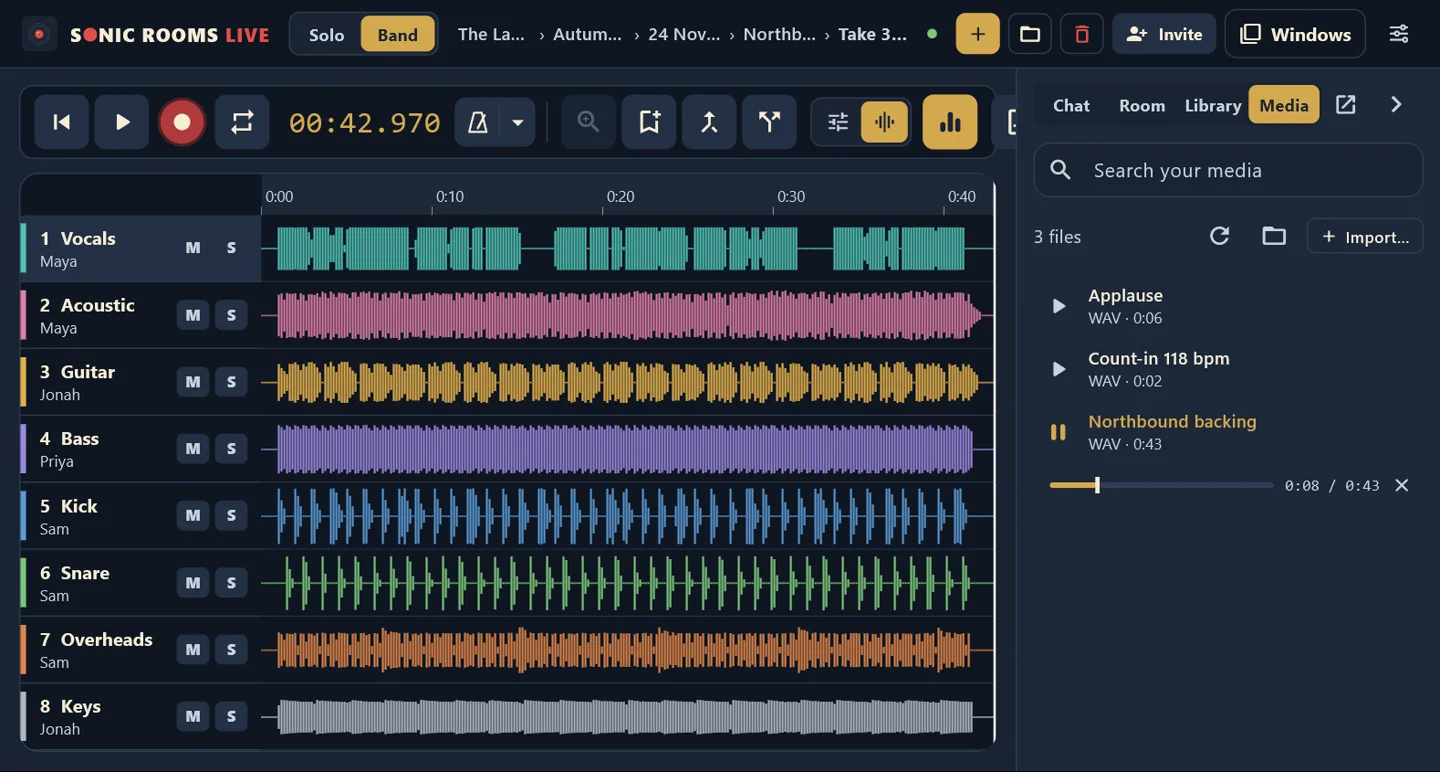
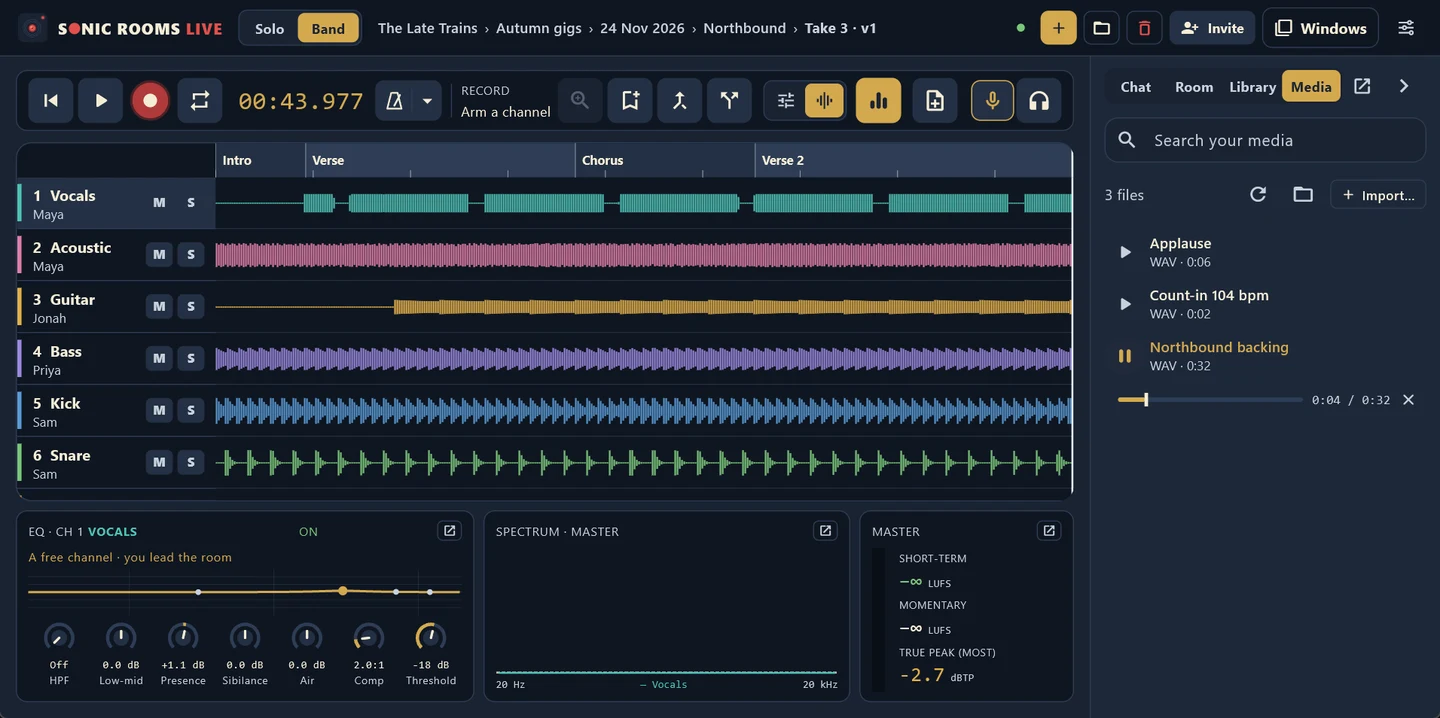
Sonic Rooms Live: new screenshots (band room with chat, Solo, timeline, pop-out windows, Media); DoWe: pocket money back, no chores

diff --git a/public/sonicroomslive/index.html b/public/sonicroomslive/index.html
@@ -168,29 +168,29 @@
         <h2>A look inside</h2>
         <div class="screens" role="list">
           <figure class="screen" role="listitem">
-            <img src="/sonicroomslive/shots/room.webp" width="1440" height="772" loading="lazy"
-              alt="The band room: sixteen mixer channels named Vocals, Acoustic, Guitar, Bass, Kick, Snare, Overheads and Keys with each player's name, level meters moving, and Maya and Jonah in the room with a steady connection">
-            <figcaption><strong>The band room</strong>A desk of sixteen channels, each with its player. The leader picks the track and starts the takes; everyone else just plays.</figcaption>
+            <img src="/sonicroomslive/shots/room.webp" width="1440" height="718" loading="lazy"
+              alt="The band room: channels named Vocals, Acoustic, Guitar, Bass, Kick, Snare, Cymbals and Keys, each with its player's name and moving level meters; EQ, spectrum and loudness meters below; band chat on the right">
+            <figcaption><strong>The band room</strong>A channel for each player, up to sixteen. The leader picks the track and starts the takes; everyone else just plays, and talks between takes in the chat.</figcaption>
           </figure>
           <figure class="screen" role="listitem">
-            <img src="/sonicroomslive/shots/timeline.webp" width="1440" height="772" loading="lazy"
-              alt="The playback view: eight channels of a take shown as coloured waveforms on a timeline, with the playhead part way through">
-            <figcaption><strong>Every part, side by side</strong>See the whole take as waveforms. Click to jump, drag to loop a section, and bounce a mix when you're happy.</figcaption>
+            <img src="/sonicroomslive/shots/solo.webp" width="1440" height="718" loading="lazy"
+              alt="Solo mode: eight channels, five of them recorded by Maya (Vocals, Harmony, Acoustic, Keys and Bass), with the take Northbound demo open in the library">
+            <figcaption><strong>Solo mode</strong>The same recorder with eight channels, just for you. Layer up an idea, then copy it to the band when it's ready. No internet needed.</figcaption>
           </figure>
           <figure class="screen" role="listitem">
-            <img src="/sonicroomslive/shots/library.webp" width="1440" height="772" loading="lazy"
-              alt="The library: a project called Autumn gigs with three rehearsal sessions, the track Northbound open with three takes, and the files of Take 3">
-            <figcaption><strong>Your band's library</strong>Every session, track and take the band has recorded — on each member's computer, not ours.</figcaption>
+            <img src="/sonicroomslive/shots/timeline.webp" width="1440" height="718" loading="lazy"
+              alt="The playback view: each part of a take as a coloured waveform under section markers Intro, Verse, Chorus and Verse 2, with the playhead in the chorus and the band's library on the right">
+            <figcaption><strong>Every part, side by side</strong>See the whole take as waveforms, with your sections marked. Click to play from anywhere, drag to loop a section, and find every take in the library.</figcaption>
           </figure>
           <figure class="screen" role="listitem">
-            <img src="/sonicroomslive/shots/media.webp" width="1440" height="772" loading="lazy"
-              alt="The Media tab: an applause sound effect, a count-in and a backing track, with the backing track previewing on a small timeline">
-            <figcaption><strong>Media at hand</strong>Import backing tracks and sound effects, hear them on their own first, then put them on a channel.</figcaption>
+            <img src="/sonicroomslive/shots/windows.webp" width="1440" height="754" loading="lazy"
+              alt="The EQ and compressor and the spectrum, each popped out into its own window over the main desk">
+            <figcaption><strong>Spread out across your screens</strong>Pop the EQ, spectrum, channels, timeline or chat out into their own windows, put them on another screen, and dock them back with a click.</figcaption>
           </figure>
           <figure class="screen" role="listitem">
-            <img src="/sonicroomslive/shots/chat.webp" width="1440" height="772" loading="lazy"
-              alt="Band chat beside the mixer: Maya asks whether to keep the slower ending and Jonah agrees, with quick replies such as Again from the top and Too loud">
-            <figcaption><strong>Talk between takes</strong>Hold space to talk, or use the chat and its quick replies — "Again from the top", "Too loud".</figcaption>
+            <img src="/sonicroomslive/shots/media.webp" width="1440" height="718" loading="lazy"
+              alt="The Media tab: an applause sound effect, a count-in and a backing track, with the backing track previewing">
+            <figcaption><strong>Media at hand</strong>Import backing tracks, count-ins and sound effects, hear them on their own first, then put them on a channel.</figcaption>
           </figure>
         </div>
         <p style="font-size:0.82rem;color:var(--muted)">Screens show an example band and recordings.</p>

diff --git a/src/pages/sonicroomslive/index.html b/src/pages/sonicroomslive/index.html
@@ -135,29 +135,29 @@
         <h2>A look inside</h2>
         <div class="screens" role="list">
           <figure class="screen" role="listitem">
-            <img src="/sonicroomslive/shots/room.webp" width="1440" height="772" loading="lazy"
-              alt="The band room: sixteen mixer channels named Vocals, Acoustic, Guitar, Bass, Kick, Snare, Overheads and Keys with each player's name, level meters moving, and Maya and Jonah in the room with a steady connection">
-            <figcaption><strong>The band room</strong>A desk of sixteen channels, each with its player. The leader picks the track and starts the takes; everyone else just plays.</figcaption>
+            <img src="/sonicroomslive/shots/room.webp" width="1440" height="718" loading="lazy"
+              alt="The band room: channels named Vocals, Acoustic, Guitar, Bass, Kick, Snare, Cymbals and Keys, each with its player's name and moving level meters; EQ, spectrum and loudness meters below; band chat on the right">
+            <figcaption><strong>The band room</strong>A channel for each player, up to sixteen. The leader picks the track and starts the takes; everyone else just plays, and talks between takes in the chat.</figcaption>
           </figure>
           <figure class="screen" role="listitem">
-            <img src="/sonicroomslive/shots/timeline.webp" width="1440" height="772" loading="lazy"
-              alt="The playback view: eight channels of a take shown as coloured waveforms on a timeline, with the playhead part way through">
-            <figcaption><strong>Every part, side by side</strong>See the whole take as waveforms. Click to jump, drag to loop a section, and bounce a mix when you're happy.</figcaption>
+            <img src="/sonicroomslive/shots/solo.webp" width="1440" height="718" loading="lazy"
+              alt="Solo mode: eight channels, five of them recorded by Maya (Vocals, Harmony, Acoustic, Keys and Bass), with the take Northbound demo open in the library">
+            <figcaption><strong>Solo mode</strong>The same recorder with eight channels, just for you. Layer up an idea, then copy it to the band when it's ready. No internet needed.</figcaption>
           </figure>
           <figure class="screen" role="listitem">
-            <img src="/sonicroomslive/shots/library.webp" width="1440" height="772" loading="lazy"
-              alt="The library: a project called Autumn gigs with three rehearsal sessions, the track Northbound open with three takes, and the files of Take 3">
-            <figcaption><strong>Your band's library</strong>Every session, track and take the band has recorded — on each member's computer, not ours.</figcaption>
+            <img src="/sonicroomslive/shots/timeline.webp" width="1440" height="718" loading="lazy"
+              alt="The playback view: each part of a take as a coloured waveform under section markers Intro, Verse, Chorus and Verse 2, with the playhead in the chorus and the band's library on the right">
+            <figcaption><strong>Every part, side by side</strong>See the whole take as waveforms, with your sections marked. Click to play from anywhere, drag to loop a section, and find every take in the library.</figcaption>
           </figure>
           <figure class="screen" role="listitem">
-            <img src="/sonicroomslive/shots/media.webp" width="1440" height="772" loading="lazy"
-              alt="The Media tab: an applause sound effect, a count-in and a backing track, with the backing track previewing on a small timeline">
-            <figcaption><strong>Media at hand</strong>Import backing tracks and sound effects, hear them on their own first, then put them on a channel.</figcaption>
+            <img src="/sonicroomslive/shots/windows.webp" width="1440" height="754" loading="lazy"
+              alt="The EQ and compressor and the spectrum, each popped out into its own window over the main desk">
+            <figcaption><strong>Spread out across your screens</strong>Pop the EQ, spectrum, channels, timeline or chat out into their own windows, put them on another screen, and dock them back with a click.</figcaption>
           </figure>
           <figure class="screen" role="listitem">
-            <img src="/sonicroomslive/shots/chat.webp" width="1440" height="772" loading="lazy"
-              alt="Band chat beside the mixer: Maya asks whether to keep the slower ending and Jonah agrees, with quick replies such as Again from the top and Too loud">
-            <figcaption><strong>Talk between takes</strong>Hold space to talk, or use the chat and its quick replies — "Again from the top", "Too loud".</figcaption>
+            <img src="/sonicroomslive/shots/media.webp" width="1440" height="718" loading="lazy"
+              alt="The Media tab: an applause sound effect, a count-in and a backing track, with the backing track previewing">
+            <figcaption><strong>Media at hand</strong>Import backing tracks, count-ins and sound effects, hear them on their own first, then put them on a channel.</figcaption>
           </figure>
         </div>
         <p style="font-size:0.82rem;color:var(--muted)">Screens show an example band and recordings.</p>

diff --git a/public/dowedontwe/index.html b/public/dowedontwe/index.html
@@ -99,8 +99,8 @@
           </div>
           <div class="card">
             <h3>Gifts and plans</h3>
-            <p>Birthday and festive lists keep surprises secret; map rooms plan days out and the routes between
-              stops.</p>
+            <p>Birthday and festive lists keep surprises secret; map rooms plan days out; pocket money rooms
+              keep track of what each child has earned.</p>
           </div>
         </div>
         <p style="margin-top:1.5rem"><a class="button" href="/dowedontwe/guide">Read the full guide</a></p>

diff --git a/src/pages/dowedontwe/index.html b/src/pages/dowedontwe/index.html
@@ -66,8 +66,8 @@
           </div>
           <div class="card">
             <h3>Gifts and plans</h3>
-            <p>Birthday and festive lists keep surprises secret; map rooms plan days out and the routes between
-              stops.</p>
+            <p>Birthday and festive lists keep surprises secret; map rooms plan days out; pocket money rooms
+              keep track of what each child has earned.</p>
           </div>
         </div>
         <p style="margin-top:1.5rem"><a class="button" href="/dowedontwe/guide">Read the full guide</a></p>

diff --git a/public/styles.css b/public/styles.css
@@ -191,7 +191,7 @@ strong { font-weight: 500; color: var(--charcoal); }
 .screens::-webkit-scrollbar { display: none; }
 .screen { flex: 0 0 88%; margin: 0; scroll-snap-align: start; }
 .screen img {
-  display: block; width: 100%; height: auto; aspect-ratio: 1440 / 772;
+  display: block; width: 100%; height: auto;  /* proportions from each img's width and height */
   border-radius: 12px; background: var(--charcoal);
   box-shadow: 0 10px 30px rgba(30, 37, 37, 0.18);
 }
